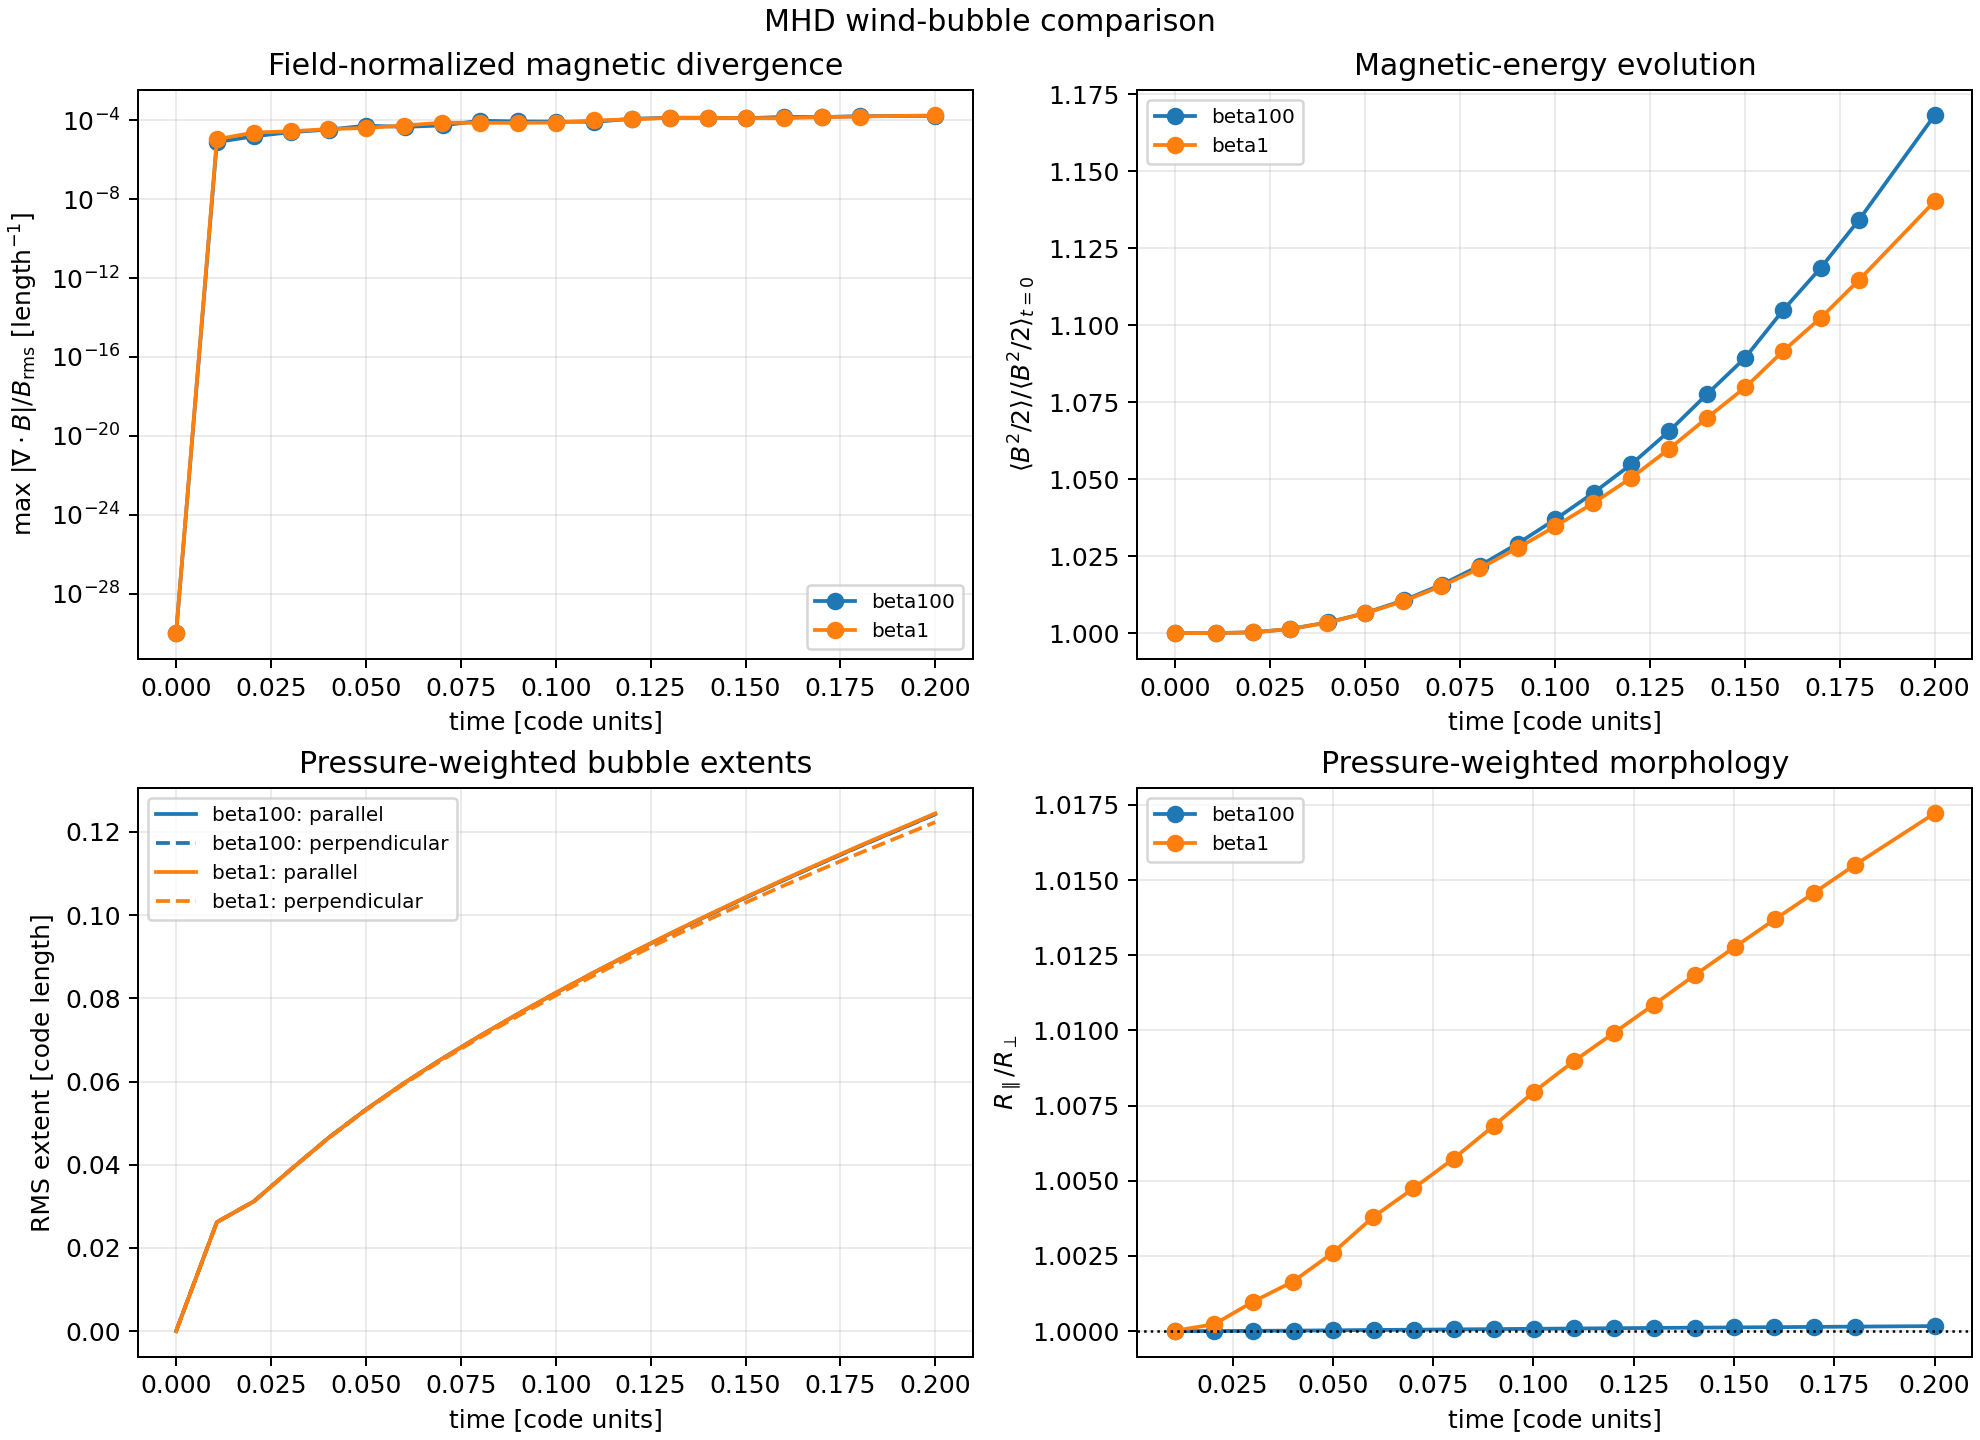
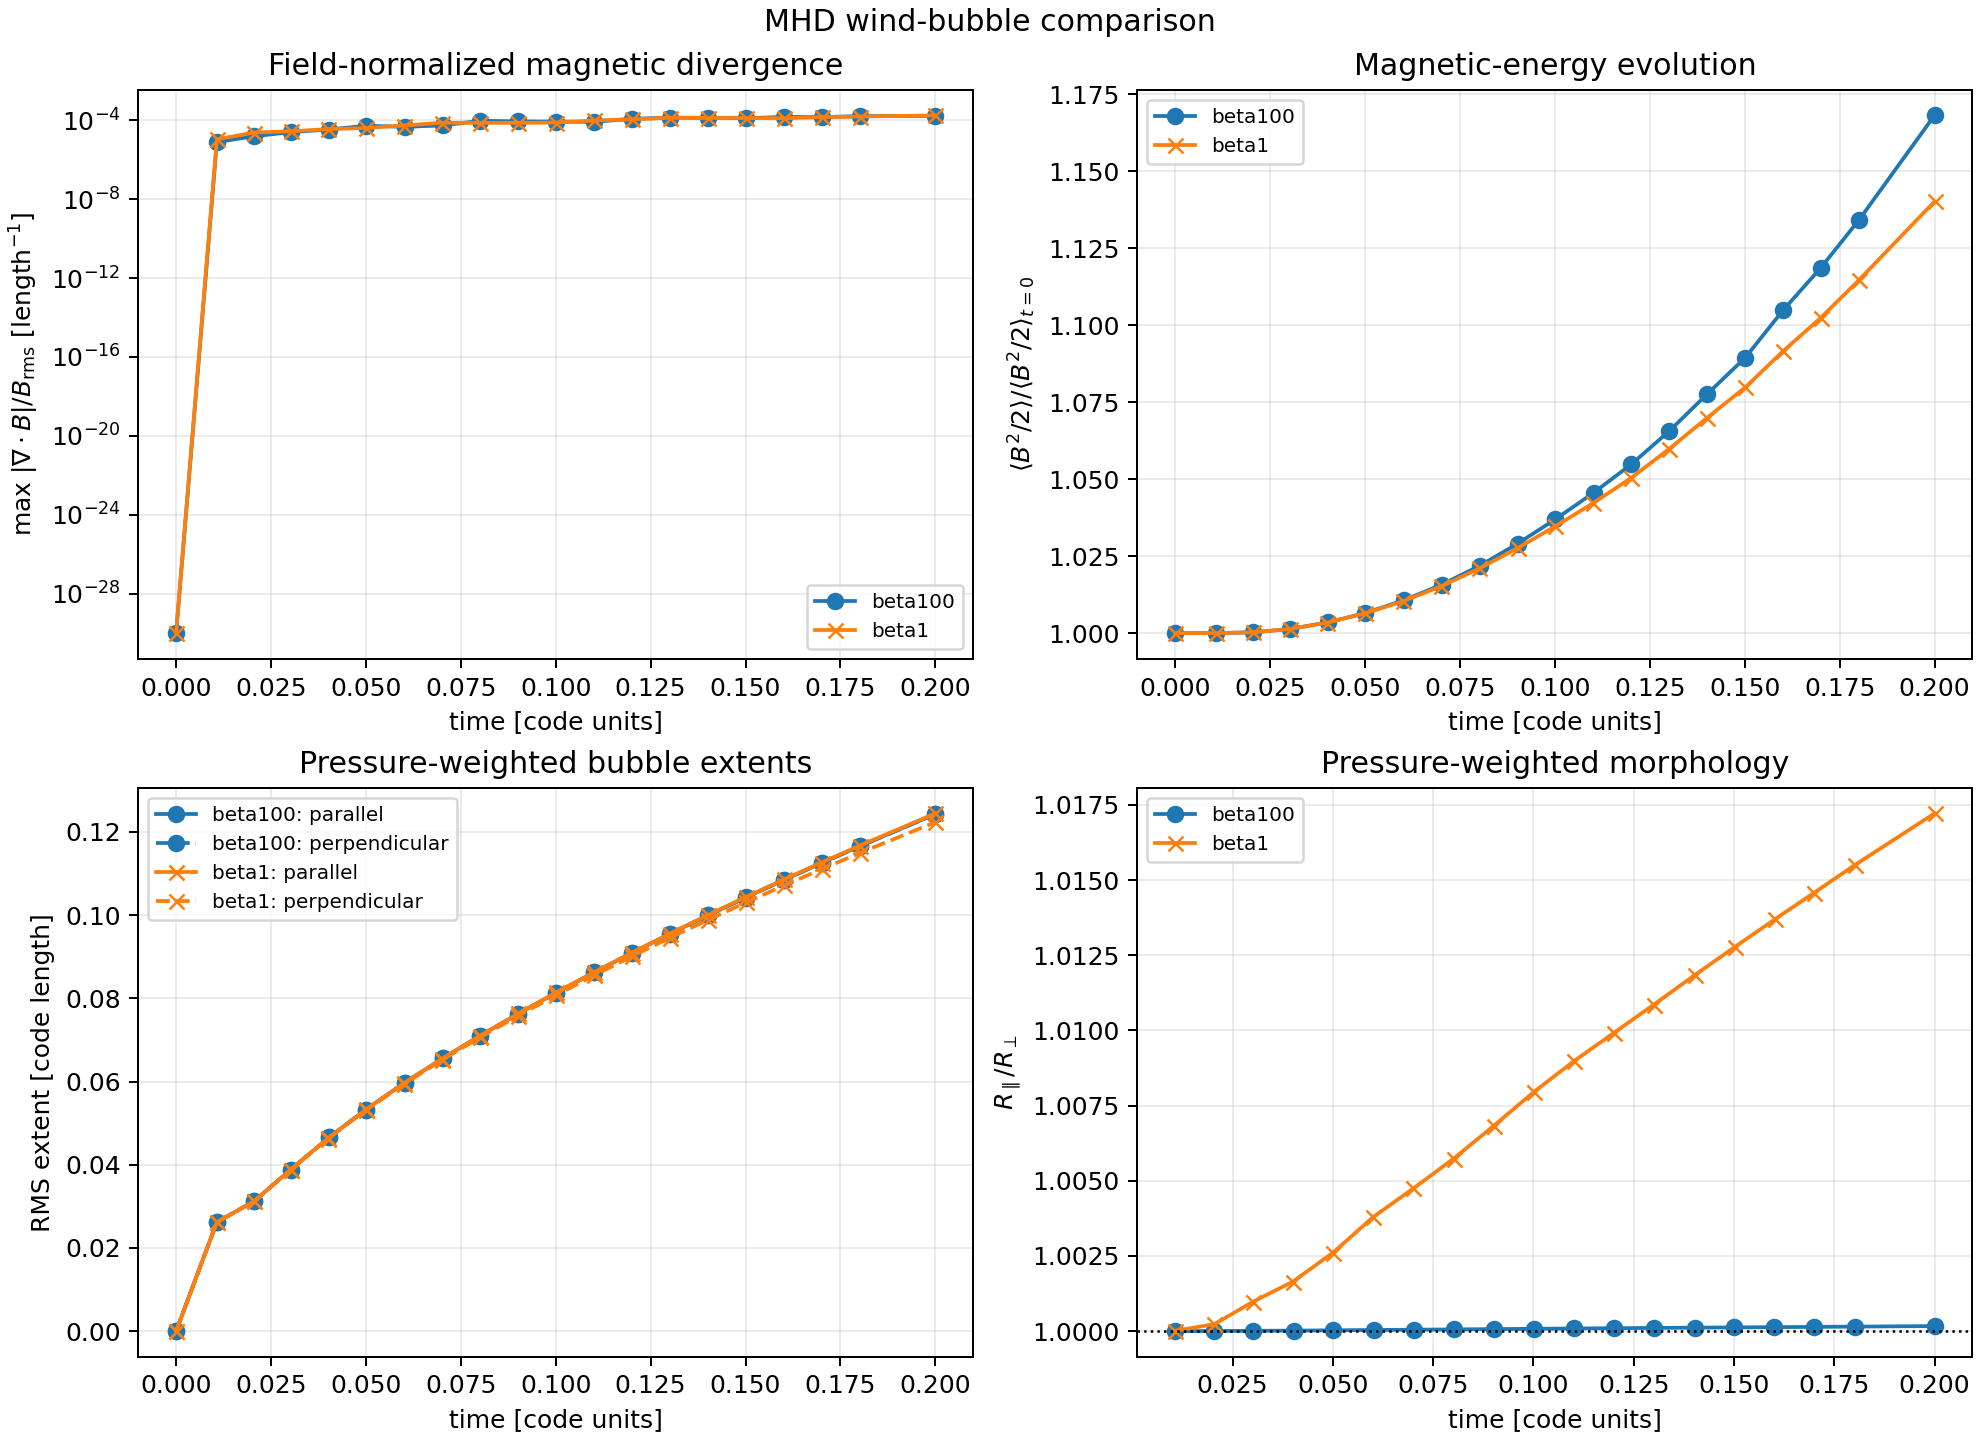
Make overlapping MHD comparison curves visible

diff --git a/experiments/wind_bubble/compare_mhd_runs.py b/experiments/wind_bubble/compare_mhd_runs.py
@@ -30,6 +30,12 @@ REQUIRED_COLUMNS = (
     "pressure_weighted_axis_aspect_ratio",
 )
 DEFAULT_OUTPUT_DIR = Path("outputs/mhd_comparison_n064")
+RUN_MARKERS = ("o", "x", "s", "^", "D", "v", "P", "X")
+
+
+def marker_for_run(run_index: int) -> str:
+    """Return a repeatable marker that keeps overlapping runs visible."""
+    return RUN_MARKERS[run_index % len(RUN_MARKERS)]
 
 
 def parse_run_specification(value: str) -> tuple[str, Path]:
@@ -119,7 +125,8 @@ def plot_comparison(
 ) -> None:
     """Plot stability and continuous morphology diagnostics across runs."""
     figure, axes = plt.subplots(2, 2, figsize=(11, 8), constrained_layout=True)
-    for label, _, rows in histories:
+    for run_index, (label, _, rows) in enumerate(histories):
+        marker = marker_for_run(run_index)
         values = {
             column: np.array([row[column] for row in rows])
             for column in REQUIRED_COLUMNS
@@ -133,31 +140,33 @@ def plot_comparison(
         axes[0, 0].semilogy(
             times,
             np.maximum(normalized_divergence, 1.0e-30),
-            marker="o",
+            marker=marker,
             label=label,
         )
         axes[0, 1].plot(
             times,
             magnetic_energy / magnetic_energy[0],
-            marker="o",
+            marker=marker,
             label=label,
         )
         line = axes[1, 0].plot(
             times,
             values["pressure_weighted_extent_parallel_to_field"],
+            marker=marker,
             label=f"{label}: parallel",
         )[0]
         axes[1, 0].plot(
             times,
             values["pressure_weighted_extent_perpendicular_to_field"],
             linestyle="--",
+            marker=marker,
             color=line.get_color(),
             label=f"{label}: perpendicular",
         )
         axes[1, 1].plot(
             times,
             values["pressure_weighted_axis_aspect_ratio"],
-            marker="o",
+            marker=marker,
             label=label,
         )
 

diff --git a/tests/experiments/test_compare_mhd_runs.py b/tests/experiments/test_compare_mhd_runs.py
@@ -8,6 +8,8 @@ import unittest
 
 from experiments.wind_bubble.compare_mhd_runs import (
     REQUIRED_COLUMNS,
+    RUN_MARKERS,
+    marker_for_run,
     parse_run_specification,
     read_mhd_history,
     write_combined_history,
@@ -39,6 +41,11 @@ class MHDComparisonTests(unittest.TestCase):
         self.assertEqual(path, Path("outputs/run.csv"))
         with self.assertRaises(argparse.ArgumentTypeError):
             parse_run_specification("outputs/run.csv")
+
+    def test_each_run_gets_a_distinct_repeatable_marker(self):
+        markers = [marker_for_run(index) for index in range(len(RUN_MARKERS))]
+        self.assertEqual(len(markers), len(set(markers)))
+        self.assertEqual(marker_for_run(len(RUN_MARKERS)), RUN_MARKERS[0])
 
     def test_read_and_combine_histories(self):
         with tempfile.TemporaryDirectory() as directory:
